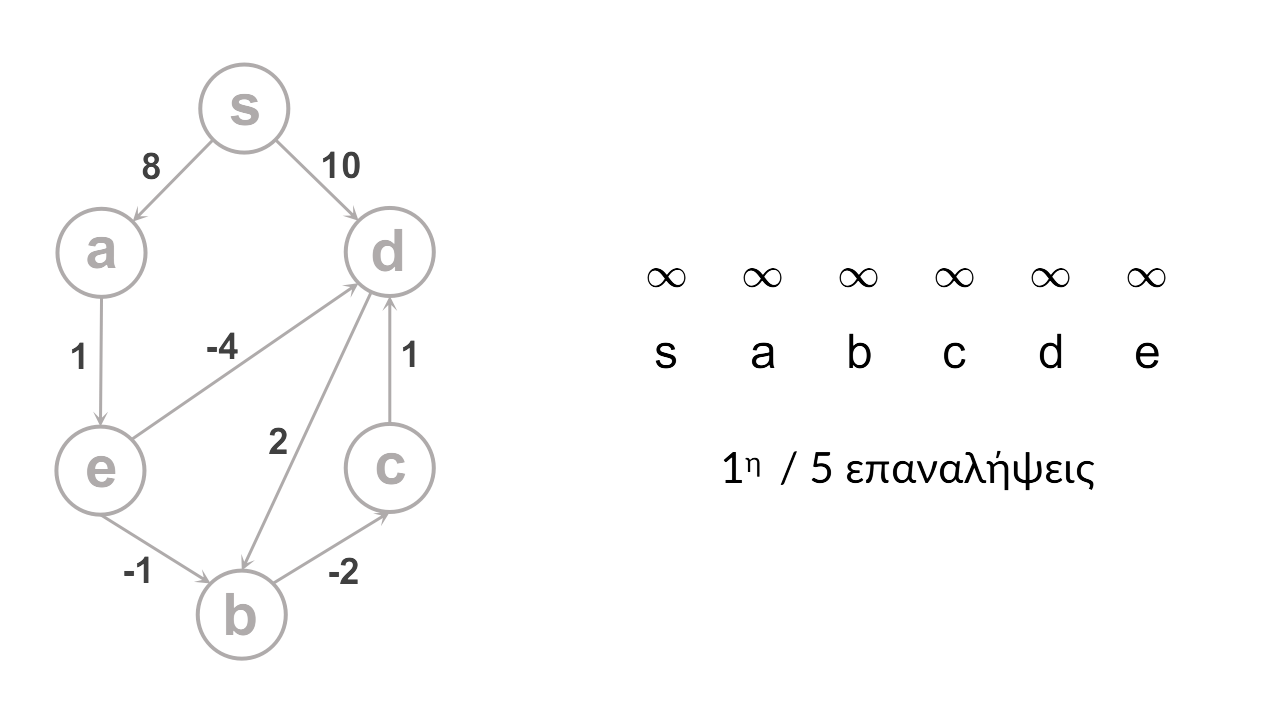
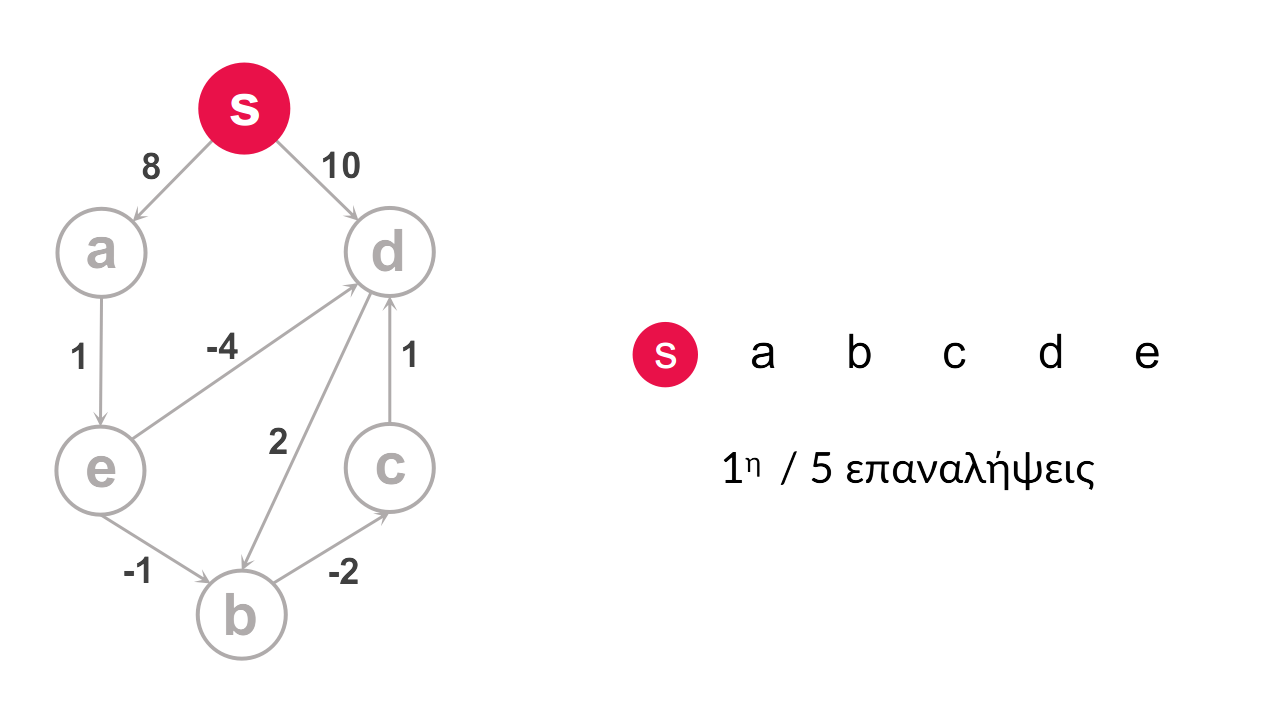
Rearrange slides for Bellman-Ford algorithm
Rearrange the fist slides in Bellman-Ford algorithm to better
fit the algorithm pseudocode.

diff --git a/Graphs/Bellman-Ford/README.md b/Graphs/Bellman-Ford/README.md
@@ -29,12 +29,12 @@
 
   <img src="./img/Slide7.png">
   <br/>
-  <p>Αρχικοποιούμε κάθε κόμβο του πίνακα με την τιμή άπειρο και διαλέγουμε τον αρχικό μας κόμβο.</p>
+  <p>Αρχικά πρέπει να διαλέξουμε τον αρχικό μας κόμβο. Σε αυτό το παράδειγμα θα επιλέξουμε τον κόμβο <strong><em>s</em></strong>.</p>
   <hr />
 
   <img src="./img/Slide8.png">
   <br/>
-  <p>Σε αυτό το παράδειγμα θα επιλέξουμε τον κόμβο <strong><em>s</em></strong>.</p>
+  <p>Αρχικοποιούμε κάθε κόμβο του πίνακα με την τιμή άπειρο.</p>
   <hr />
 
   <img src="./img/Slide9.png">
